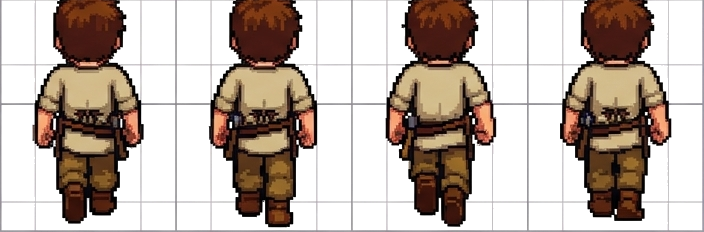
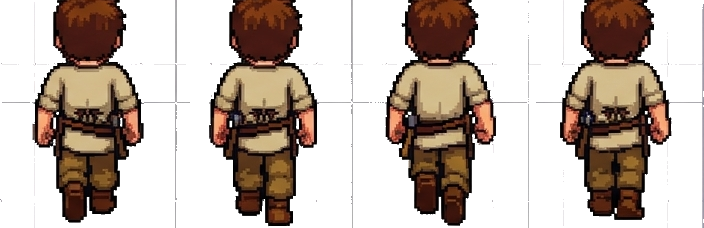
Fix sprite sheet clipping, add depth occlusion, harden CSS clipping
Root-caused the "WALK FRONT" text and reference-grid lines bleeding
into the worker's walk/idle frames: the label_trim_top used during
extraction (24px) was measured wrong — the sheet's per-panel label
height actually varies (25-50px depending on the panel), and the
"idle" panel's own bottom edge also bled the *next* panel's label in
by a few rows. Re-extracted all 5 farmer sprite assets with per-panel
trim values measured directly off row-content scans, plus a second
transparency pass that strips the sheet's neutral-gray reference-grid
color bands (verified against the character's actual palette so nothing
legitimate — hair, skin, the dagger — gets touched).

Also, per the same report:
- .worker-body now clips with overflow:hidden (the craft bar sits on
  a sibling, not a descendant, so it isn't clipped by this)
- Investigated the reported "white border" around customers/the
  counter — no border/outline/box-shadow exists on those elements;
  screenshots taken after the sprite fix show it resolved, so it was
  very likely the broken worker sprite bleeding into the same frame
- Added a second, clip-path'd copy of the station image
  (.stand-booth-front, z-index above the worker layer) showing only
  its bottom sliver, so the table's front edge now occludes the
  worker's legs when they're at the station — required also moving
  stationYPct closer to the counter so the worker's feet actually
  reach the image's bottom edge (measured via getBoundingClientRect
[…]

diff --git a/games/blacksmith-tycoon.html b/games/blacksmith-tycoon.html
@@ -154,6 +154,15 @@
     50%  { transform: translateX(-50%) scale(1.08); }
     100% { transform: translateX(-50%) scale(1); }
   }
+  /* สำเนาโต๊ะ Station เฉพาะ "ขอบหน้าโต๊ะ" (แถบล่างสุดของภาพ) วางซ้อนอยู่ "หน้า" worker (z-index สูงกว่า worker-layer)
+     ส่วนภาพเต็มของ Station (#standBooth) อยู่ z-index:2 คือ "หลัง" worker (z-index:3) เหมือนเดิม
+     รวมกันแล้วได้ภาพลวงตาแบบ 2.5D: worker เดินไป "หลัง" โต๊ะ แต่ขอบโต๊ะด้านหน้ายังบังขาอยู่นิดหน่อย */
+  .stand-booth-front {
+    z-index: 4;
+    pointer-events: none;
+    cursor: default;
+    clip-path: inset(82% 0 0 0);
+  }
 
   /* เคาน์เตอร์รับออเดอร์ — อยู่โซนล่างสุด (เหนือจุดเกิดลูกค้าเล็กน้อย) จัดกึ่งกลางแนวนอน ไม่ใช้แบบยาวจรดขอบจอ
      (ไม่มี asset เคาน์เตอร์แยกให้ วาดด้วย CSS) */
@@ -179,7 +188,12 @@
     width: 82px; height: 101px;
     will-change: transform;
   }
-  .worker-body { width: 100%; height: 100%; }
+  /* overflow:hidden อยู่ที่ worker-body (ห่อเฉพาะตัว sprite) ไม่ใช่ .worker เอง
+     เพราะ craft-bar เป็น sibling ที่ตั้งใจให้ล้นขึ้นไปเหนือหัวตัวละคร (top:-14px) ถ้า hidden ที่ .worker จะบัง craft-bar ไปด้วย */
+  .worker-body {
+    width: 100%; height: 100%;
+    overflow: hidden; /* กันไม่ให้พื้นหลัง sprite-sheet ล้นออกนอกกรอบ 1 เฟรมไม่ว่ากรณีใด */
+  }
   /* ตัวละคร worker ใช้ CSS sprite-sheet frame animation จริง (background-position สลับเฟรม) แทนภาพนิ่ง
      เลยไม่ต้องใช้ walkBob มาช่วยหลอกสายตาแบบตัวละครอื่นที่ไม่มีเฟรมเดินจริง */
   .worker-sprite {
@@ -500,6 +514,7 @@
   <div class="customer-lane" id="customerLane"></div>
   <div class="worker-layer" id="workerLayer"></div>
   <img class="stand-booth" id="standBooth" src="assets/blacksmith/station_stall.png" alt="">
+  <img class="stand-booth stand-booth-front" id="standBoothFront" src="assets/blacksmith/station_stall.png" alt="" aria-hidden="true">
   <button class="product-badge" id="productBadge" title="อัปเกรดสินค้า">
     <img id="productBadgeIcon" src="" alt="">
     <span class="product-badge-level pixel-num" id="productBadgeLevel">0</span>
@@ -761,7 +776,9 @@ function playSfxTap() { playTone(700, 0.03, 'square', 0.05); }
 const scene = { width: 300, height: 400 };
 // จุดที่ 4 สถานีผลิต (บน) -> จุดที่ 3 พื้นที่ว่างให้เดินขึ้นลง (กลาง) -> จุดที่ 2 เคาน์เตอร์ (ล่าง ใกล้จุดเกิดลูกค้า)
 // ทุกจุด center แนวนอนที่ 0.5 ของความกว้างเหมือนกันหมด ตามที่ระบุ
-const ZONES = { stationXPct: 0.5, stationYPct: 0.22, counterYPct: 0.80, idleYPct: 0.52 };
+// stationYPct ขยับขึ้นจาก 0.22 -> 0.13 ให้เท้าตัวละครไปชนขอบล่างภาพ Station พอดี (แต่เดิมมีช่องว่างเยอะ
+// ทำให้ขอบหน้าโต๊ะ (stand-booth-front) ไม่ได้ซ้อนทับขาตัวละครเลยตามที่ตั้งใจ)
+const ZONES = { stationXPct: 0.5, stationYPct: 0.13, counterYPct: 0.80, idleYPct: 0.52 };
 
 function updateSceneMetrics() {
   const view = document.getElementById('standStageView');
@@ -1235,6 +1252,7 @@ function renderStageView() {
   document.getElementById('stageProduct').textContent = `ขาย ${stage.product}`;
   document.getElementById('standTintOverlay').style.background = stage.color;
   document.getElementById('standBooth').src = stage.stationImg;
+  document.getElementById('standBoothFront').src = stage.stationImg;
 }
 
 function renderStageProgress() {
